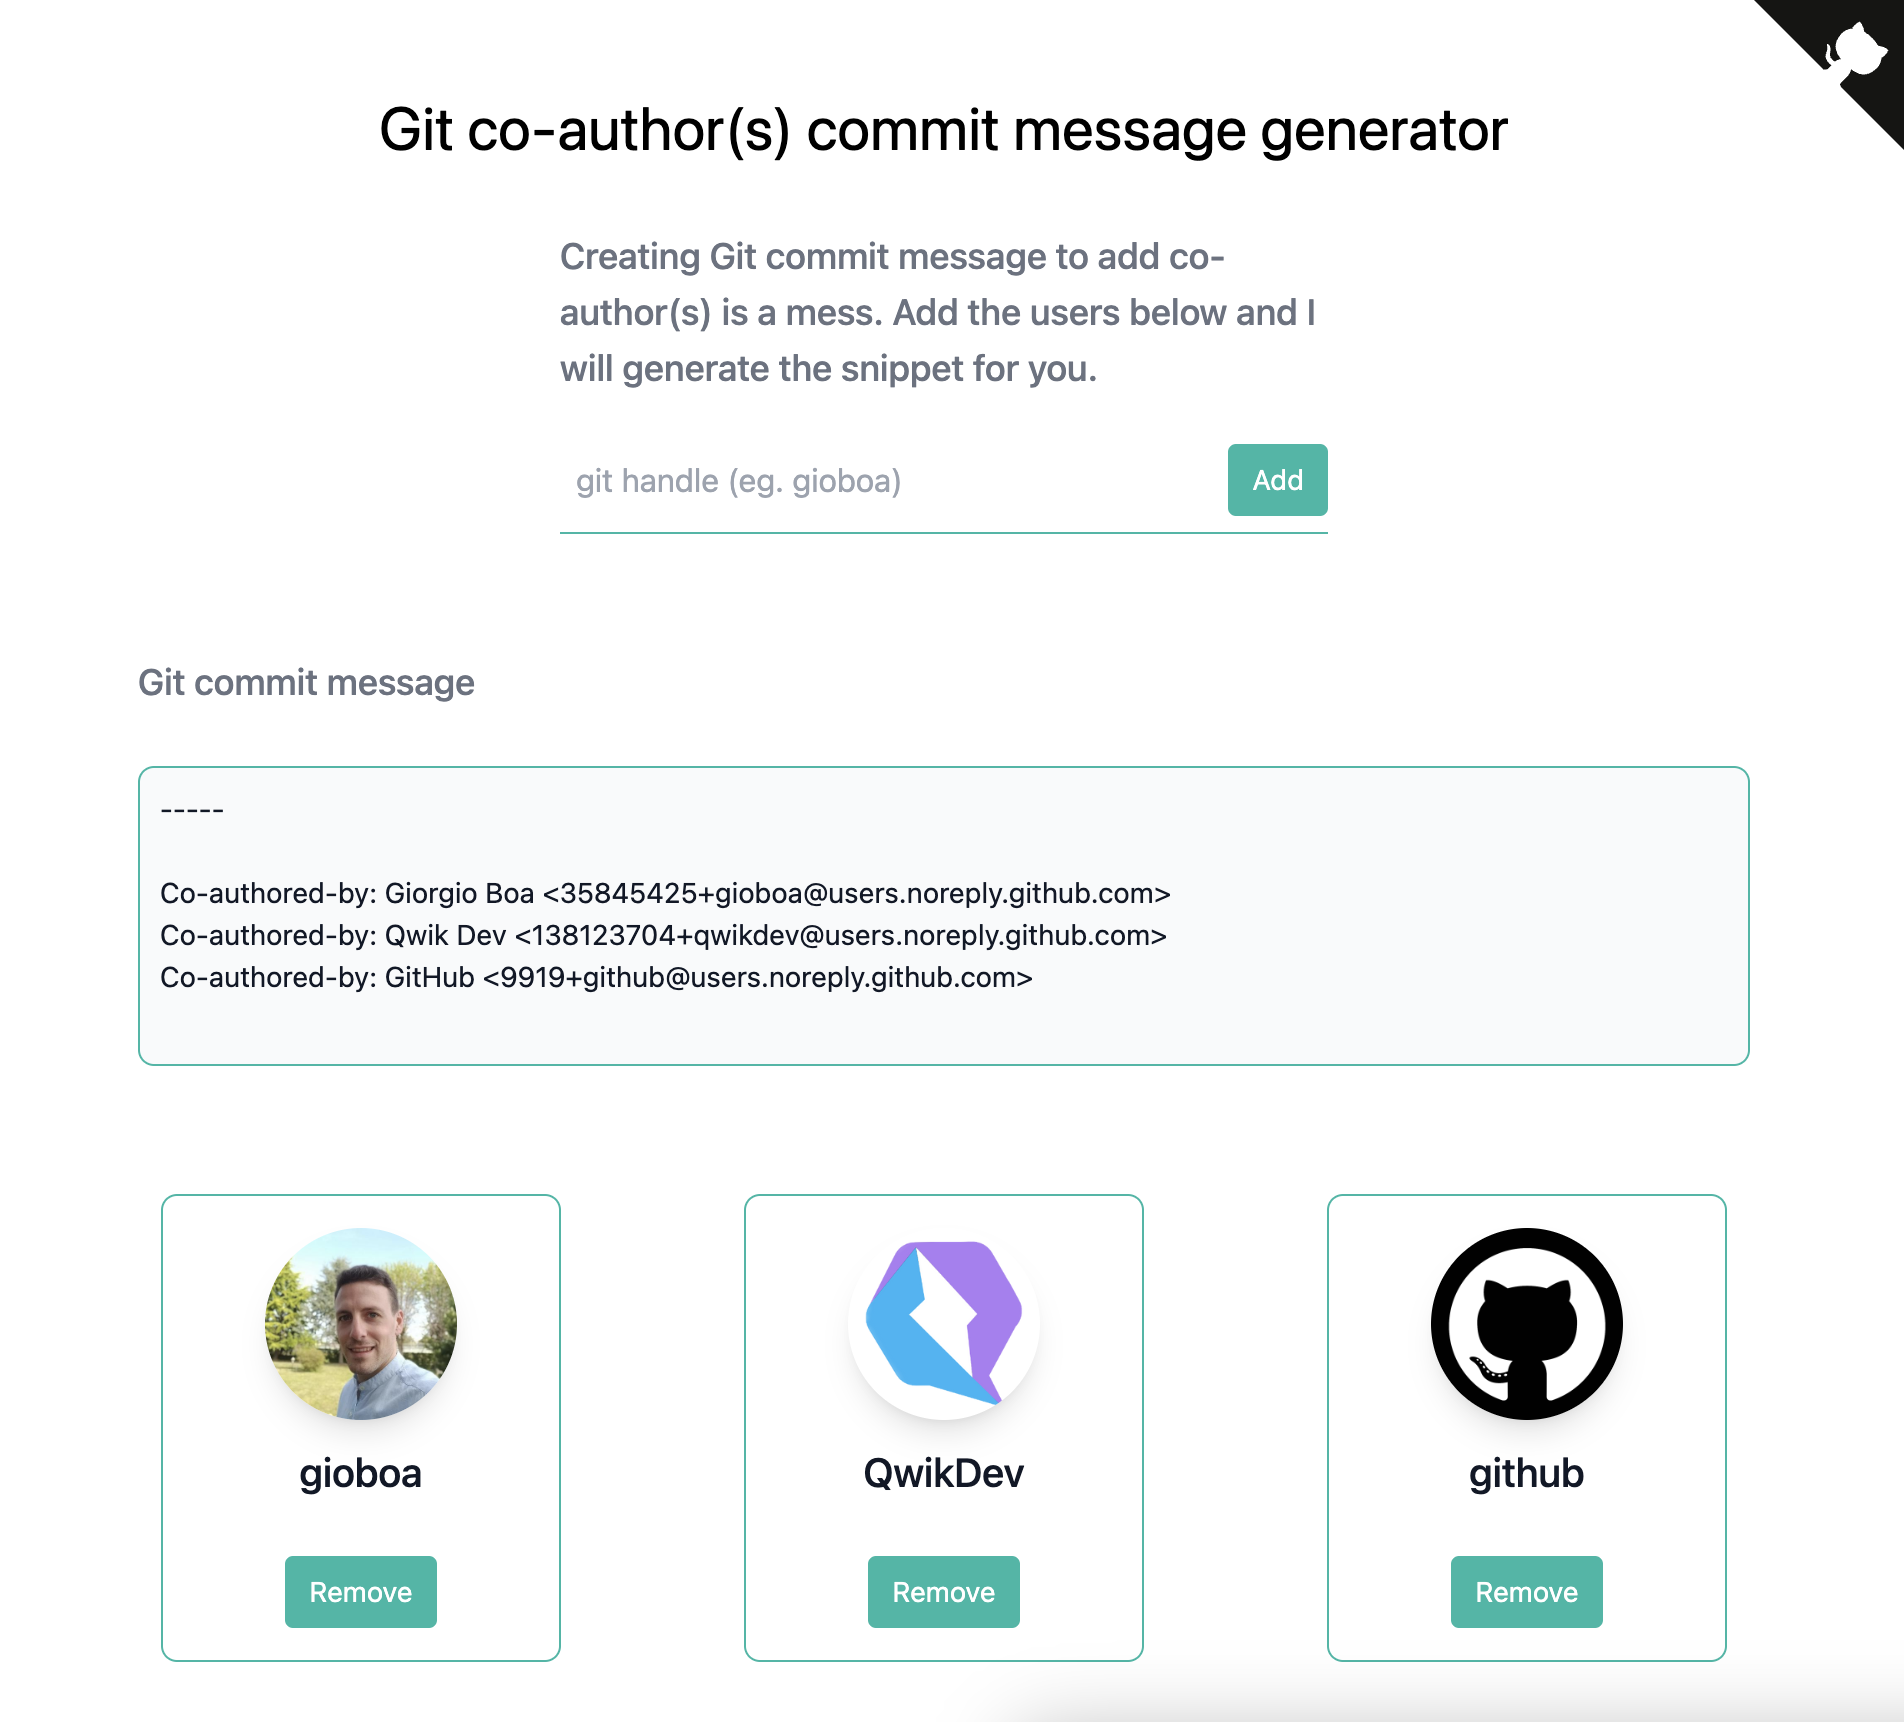
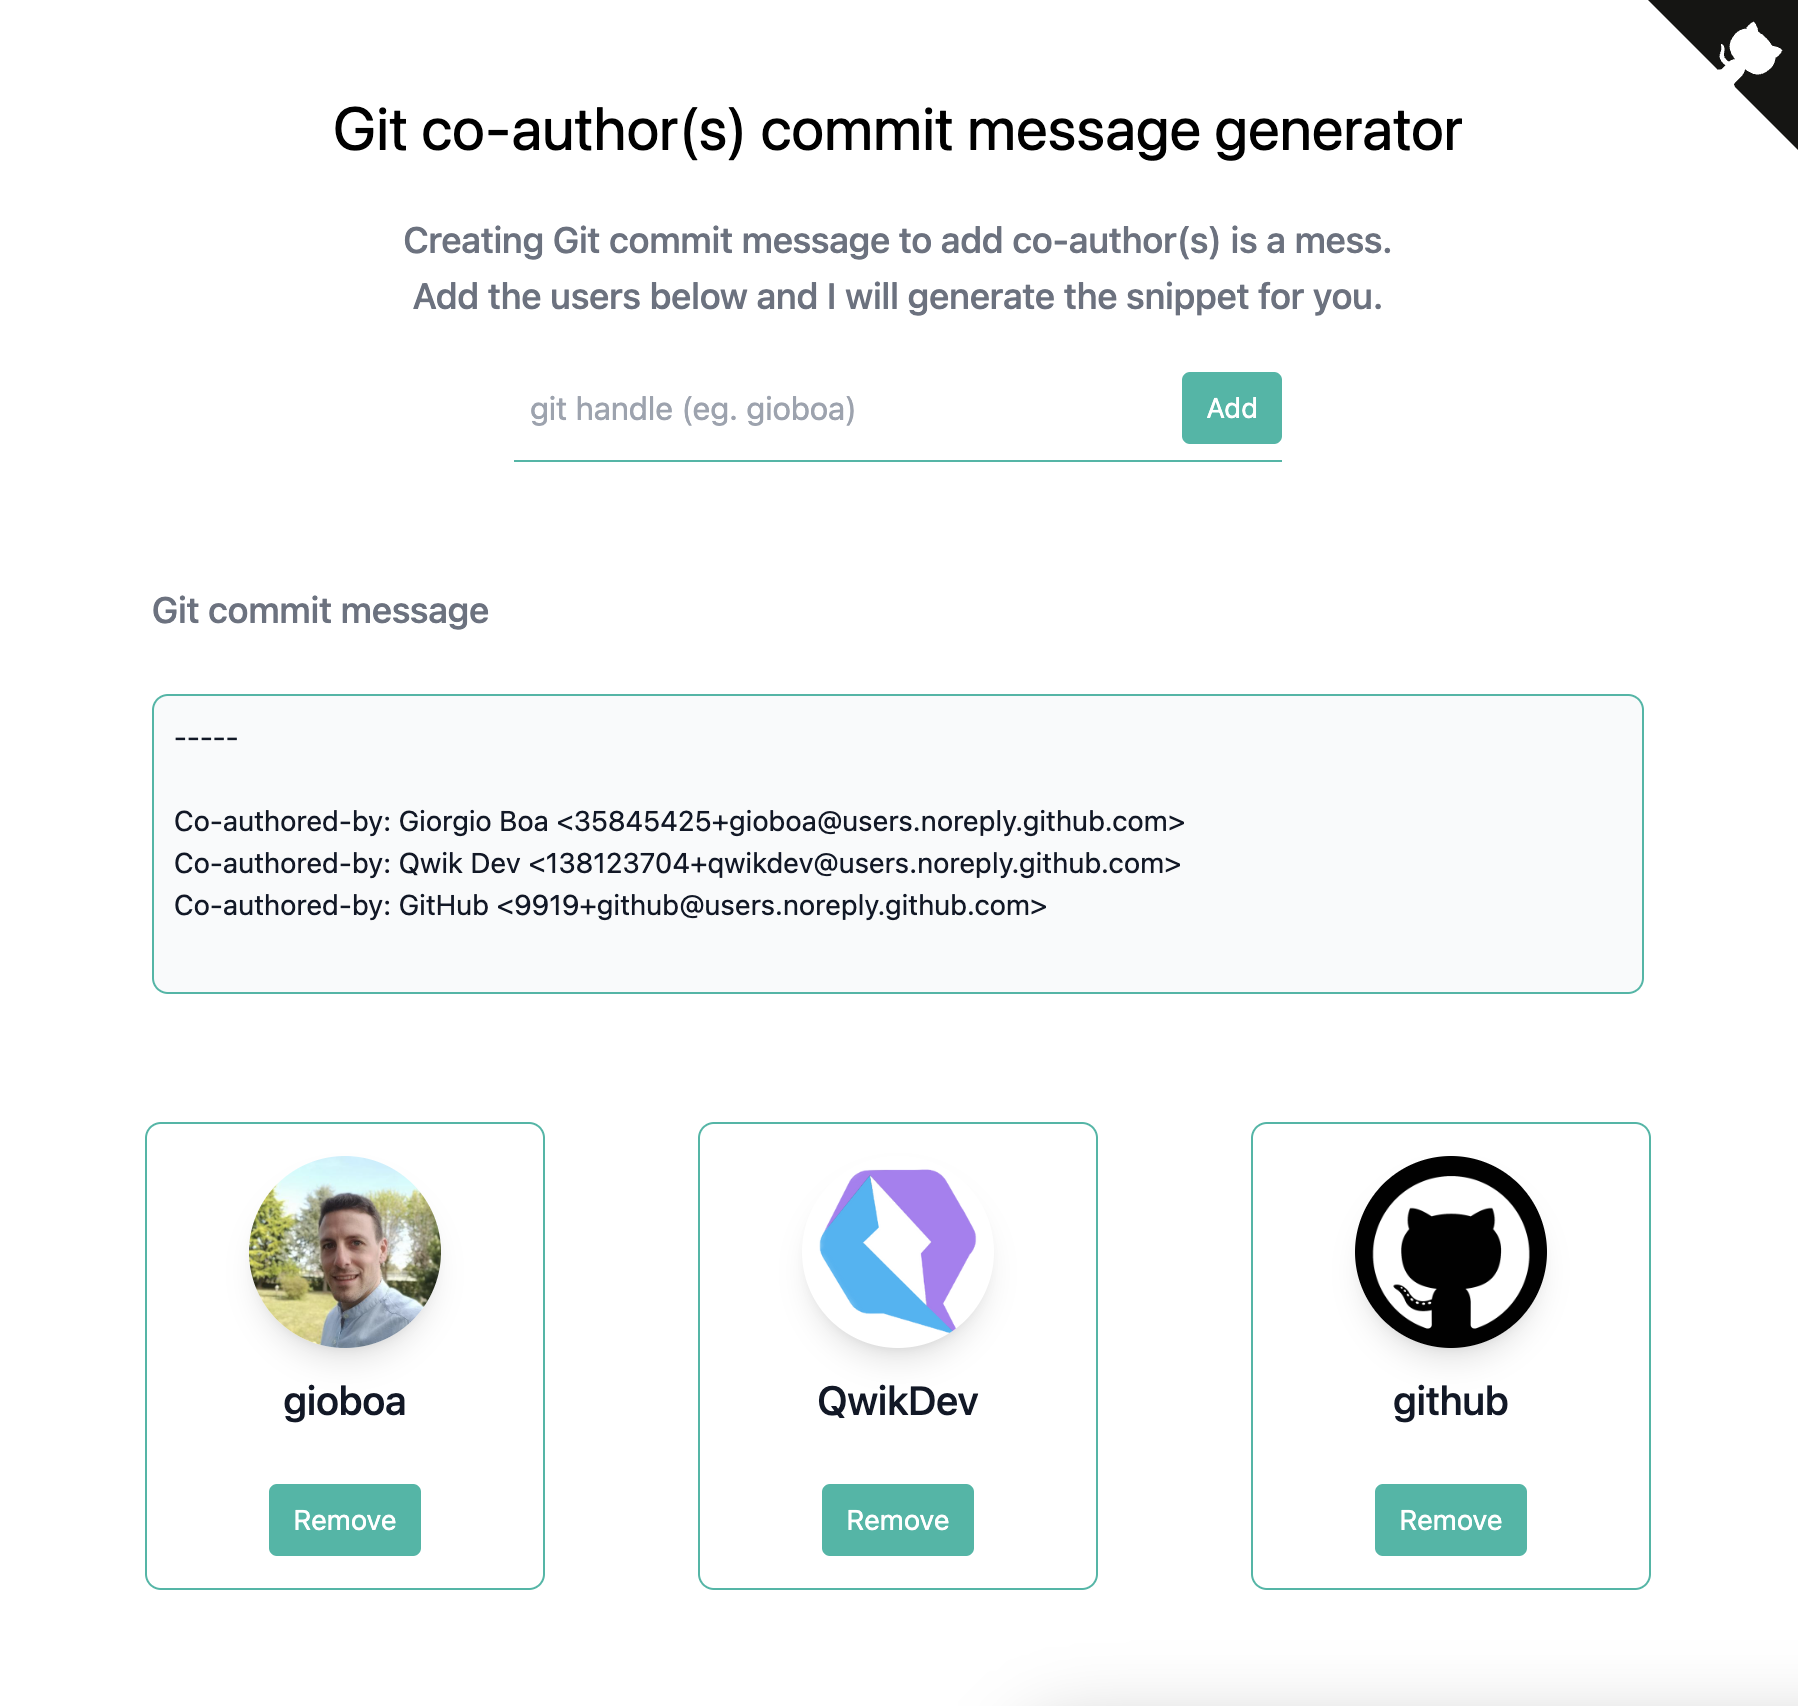
change style

diff --git a/src/routes/index.tsx b/src/routes/index.tsx
@@ -52,15 +52,15 @@ export default component$(() => {
           Git co-author(s) commit message generator
         </label>
 
-        <div class="mx-auto max-w-sm">
+        <div>
           <label
             for="message"
-            class="mb-4 mt-8 block text-lg font-medium text-gray-500"
+            class="mb-4 mt-6 block text-lg font-medium text-gray-500 text-center"
           >
-            Creating Git commit message to add co-author(s) is a mess. Add the
-            users below and I will generate the snippet for you.
+            Creating Git commit message to add co-author(s) is a mess.<br/>
+            Add the users below and I will generate the snippet for you.
           </label>
-          <div class="flex items-center border-b border-teal-500 py-2">
+          <div class="flex items-center border-b border-teal-500 py-2 mx-auto max-w-sm">
             <input
               class="mr-3 w-full appearance-none border-none bg-transparent px-2 py-1 leading-tight text-gray-700 focus:outline-none"
               type="text"
